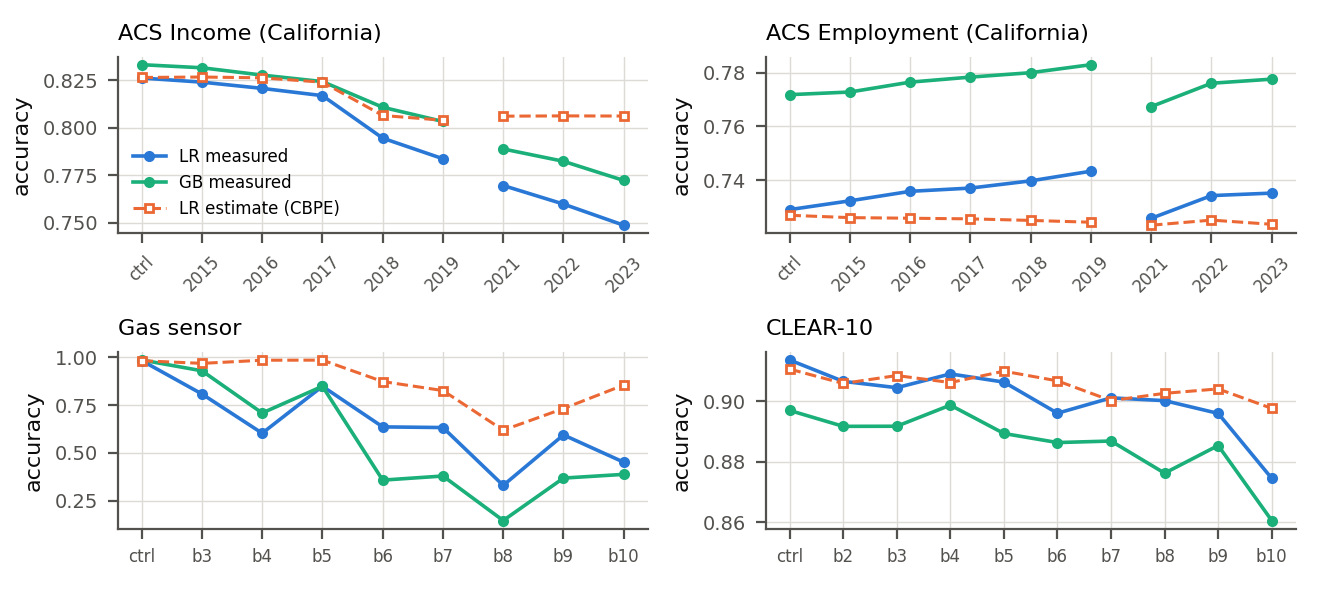
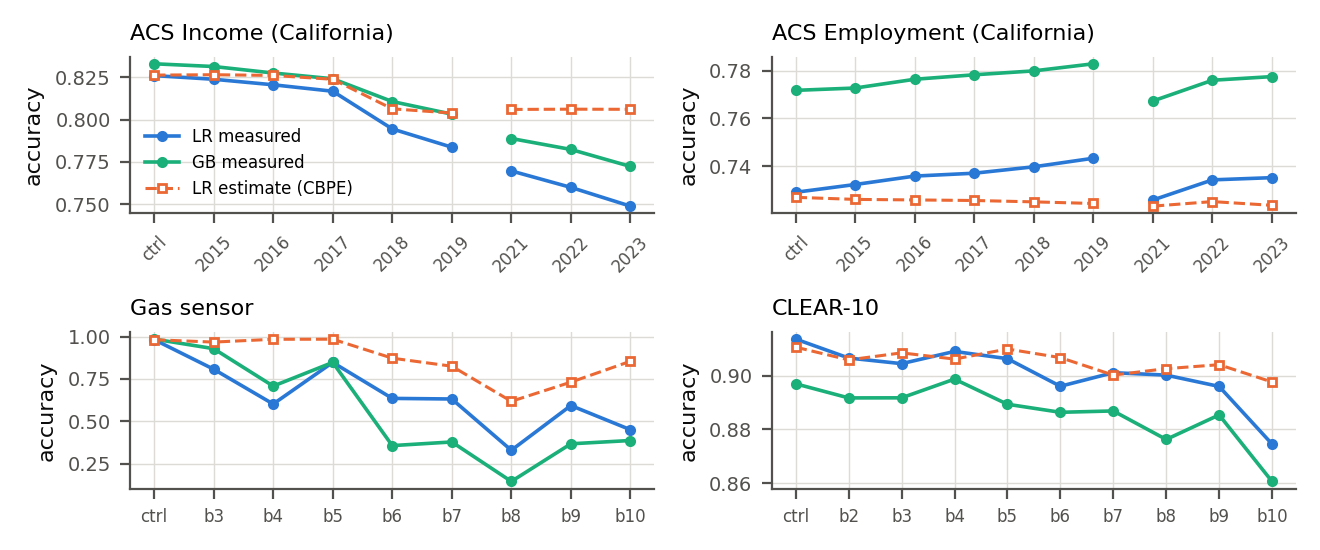
Paper build: shorter timelines figure
Claude-Session: https://claude.ai/code/session_01Q2jh3ncUT27YtGPEiV2BVS

diff --git a/examples/paper/build_artifacts.py b/examples/paper/build_artifacts.py
@@ -428,7 +428,7 @@ def real_table(R: Results) -> None:
 def timelines(R: Results) -> None:
     """Measured accuracy (both models) and the CBPE estimate (LR) over the windows of the four studies."""
     plt = mpl()
-    fig, axes = plt.subplots(2, 2, figsize=(6.6, 2.95))
+    fig, axes = plt.subplots(2, 2, figsize=(6.6, 2.75))
     for ax, code in zip(axes.flat, ("inc", "emp", "gas", "clr")):
         lr, gb = study(code, "lr"), study(code, "hgb")
         names = [k for k, w in lr["windows"].items() if w["analysis_type"] in ("control", "temporal")]
